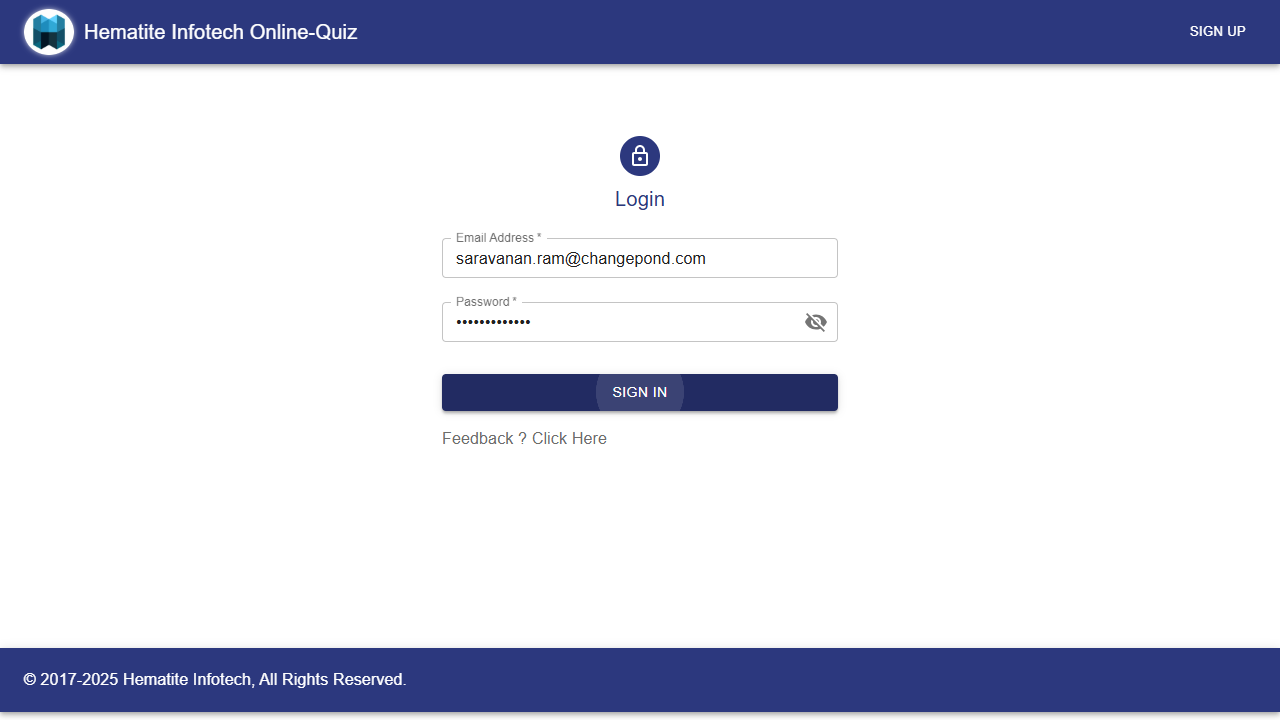
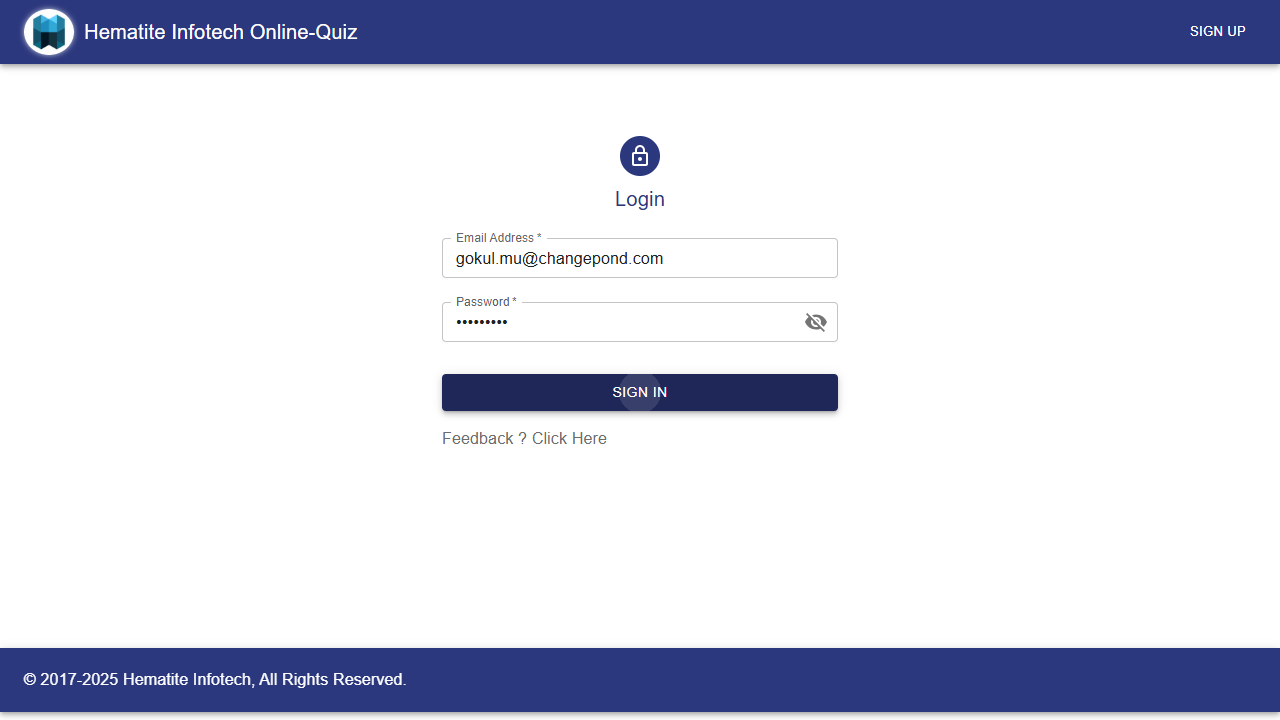
sec

diff --git a/tests/BrowserContect.spec.ts b/tests/BrowserContect.spec.ts
@@ -1,0 +1,41 @@
+
+import { test, expect,chromium, Browser, Page, Locator, BrowserContext} from '@playwright/test';
+ 
+ 
+test('login test', async () => {
+    const browser: Browser = await chromium.launch({ headless: false ,channel: 'chrome'});
+    // browsercontext-1
+    const browserContext_1: BrowserContext = await browser.newContext();
+    const page: Page = await browserContext_1.newPage();
+    await page.goto('http://quiz.hematitecorp.com/');
+    const email: Locator = await page.locator('#email');
+    const password: Locator = await page.locator('#password');
+    const submitButton: Locator = await page.locator('button[type="submit"]');
+    await email.fill('saravanan.ram@changepond.com');
+    await password.fill('Saravanan@123');
+    await submitButton.click();
+    const title: string = await page.title();
+    console.log("Home Page title" , title);
+    await page.screenshot({ path: 'VocherCode.png' });
+    expect(title).toEqual("Quiz App");
+
+
+    // browsercontext-2
+    const browserContext_2: BrowserContext = await browser.newContext();
+    const page1: Page = await browserContext_2.newPage();
+    await page.goto('http://quiz.hematitecorp.com/');
+    const email1: Locator = await page1.locator('#email');
+    const password1: Locator = await page1.locator('#password');
+    const submitButton1: Locator = await page1.locator('button[type="submit"]');
+    await email.fill('gokul.mu@changepond.com');
+    await password.fill('Gokul@321');
+    await submitButton.click();
+    const title1: string = await page.title();
+    console.log("Home Page title" , title);
+    await page.screenshot({ path: 'VocherCode.png' });
+    expect(title).toEqual("Quiz App");
+     await browserContext_1.close();
+    await browserContext_2.close();
+    browser.close();
+
+}) ;

diff --git a/tests/locator.spec.ts b/tests/locator.spec.ts
@@ -1,0 +1,41 @@
+
+import { test, expect,chromium, Browser, Page, Locator} from '@playwright/test';
+ 
+ 
+test('login test', async () => {
+    const browser: Browser = await chromium.launch({ headless: false });
+    const page: Page = await browser.newPage();
+    await page.goto('http://127.0.0.1:5501/form.html');
+    const fName: Locator = await page.locator('#txt1');
+    const password: Locator = await page.locator('#txt2');
+    await fName.fill('SARAVANAN');
+    await password.fill('sara@123');
+    const logo:Locator = await page.locator('.logo');
+    const item = await logo.isEnabled();
+    console.log(item);
+    const contact:Locator = await page.locator('.txtContact');
+    await contact.fill("888888888");
+ 
+    const heading:Locator = await page.locator("text=Registration Form");
+    const headingExists = await heading.isEnabled();
+    console.log(headingExists);
+    //
+    const myemail:Locator = await page.locator('#txtemail');
+    await myemail.fill('2k20ece066@kiot.gmail');
+    //4.use css selector
+    const address:Locator = await page.locator('css=input#txtaddrtess');
+    await address.fill('SIPCOT IT Park Chennai');
+
+    const pincode:Locator = await page.locator('css=input#txtpincode');
+    await pincode.fill('6365001');
+
+    //5.use xpath
+    const email:Locator = await page.locator('xpath=//input[@name="myemail" and @type="email"]');
+    await email.fill('admin@gmail.com');
+    const term:Locator = await page.locator('xpath=//input[@name="term" and @type="checkbox"]');
+    // const checkExit = await checkbox.isEnabled();
+    // console.log(checkExit);
+    await term.click();
+
+    
+});

diff --git a/form.html b/form.html
@@ -1,0 +1,41 @@
+<!DOCTYPE html>
+<html lang="en">
+
+<head>
+    <meta charset="UTF-8">
+    <meta name="viewport" content="width=device-width, initial-scale=1.0">
+    <title>Document</title>
+    <!-- external css  -->
+    <link rel="stylesheet" href="./form.css">
+</head>
+
+<body>
+
+    <div class="container">
+        <img src="./samosa.jpg" alt="samosa" class="logo">
+        <div class="myheading">Registration Form</div>
+        <form>
+            <input type="text" name="fname" id="txt1" class="input-txt" placeholder="enter your fullname">
+
+            <input type="password" name="password" id="txt2" class="input-txt" placeholder="enter your password">
+
+            
+            <input type="tel" name="cotact" class="txtContact" placeholder="enter your contact number"><br>
+
+            <input type="email" name="email" class="input-txt" placeholder="enter your email" id="txtemail"> <br>
+            <input type="text" id="txtaddrtess" name="address" class="input-txt" placeholder="enter your address"> <br>
+            <input type="text" id="txtpincode" name="pincode" class="input-txt" placeholder="enter your pincode"> <br>
+
+
+            <input type="checkbox" name="term" value="agree">
+            <label> I Agree your term and condition.</label> <br> <br>
+              
+          <button type="submit"> Submit</button>
+        </form>
+    </div>
+
+
+
+</body>
+
+</html>

diff --git a/tests/authentiacation.spec.ts b/tests/authentiacation.spec.ts
@@ -1,0 +1,41 @@
+import { test, expect,chromium, Browser, Page, Locator, BrowserContext} from '@playwright/test';
+
+test('aut test', async () => {
+    const browser: Browser = await chromium.launch({ headless: false });
+   
+    const browserContext_1: BrowserContext = await browser.newContext();
+    const page: Page = await browserContext_1.newPage();
+    const userId = "saravanan.ram@gmai.com";
+    const userPass = "Saravanan@123";
+    
+    const authHeader = "Basic " + btoa( userId + ":" + userPass);
+    page.setExtraHTTPHeaders({'Authorization': authHeader });
+    await page.goto('http://quiz.hematitecorp.com/');
+    // await new Promise(() => {});
+
+    
+});
+
+
+
+
+
+
+
+
+
+
+
+
+
+
+
+
+
+
+
+// const email: Locator = await page.locator('#email');
+// const password: Locator = await page.locator('#password');
+
+// await email.fill('saravanan.ram@changepond.com');
+// await password.fill('Saravanan@123');

diff --git a/form.css b/form.css
@@ -1,0 +1,34 @@
+
+
+.container{
+    border: 3px solid blue;
+    width: 400px;
+    margin: auto;
+    border-radius: 5px;
+    padding: 10px;
+    text-align: center;
+}
+.myheading {
+    color: red;
+    font-size: 25px;
+    text-align: center;
+    text-shadow: 3px 2px 2px black;
+}
+.input-txt{
+    width: 350px;
+    height: 30px;
+    color: brown;
+    box-shadow: 5px 4px 5px black;
+    border-radius: 5px;
+    font-size: 20px;
+    margin: 6px 0px;
+}
+.txtContact {
+    width: 350px;
+    height: 30px;
+    color: brown;
+    box-shadow: 5px 4px 5px black;
+    border-radius: 5px;
+    font-size: 20px;
+    margin: 6px 0px;
+}
